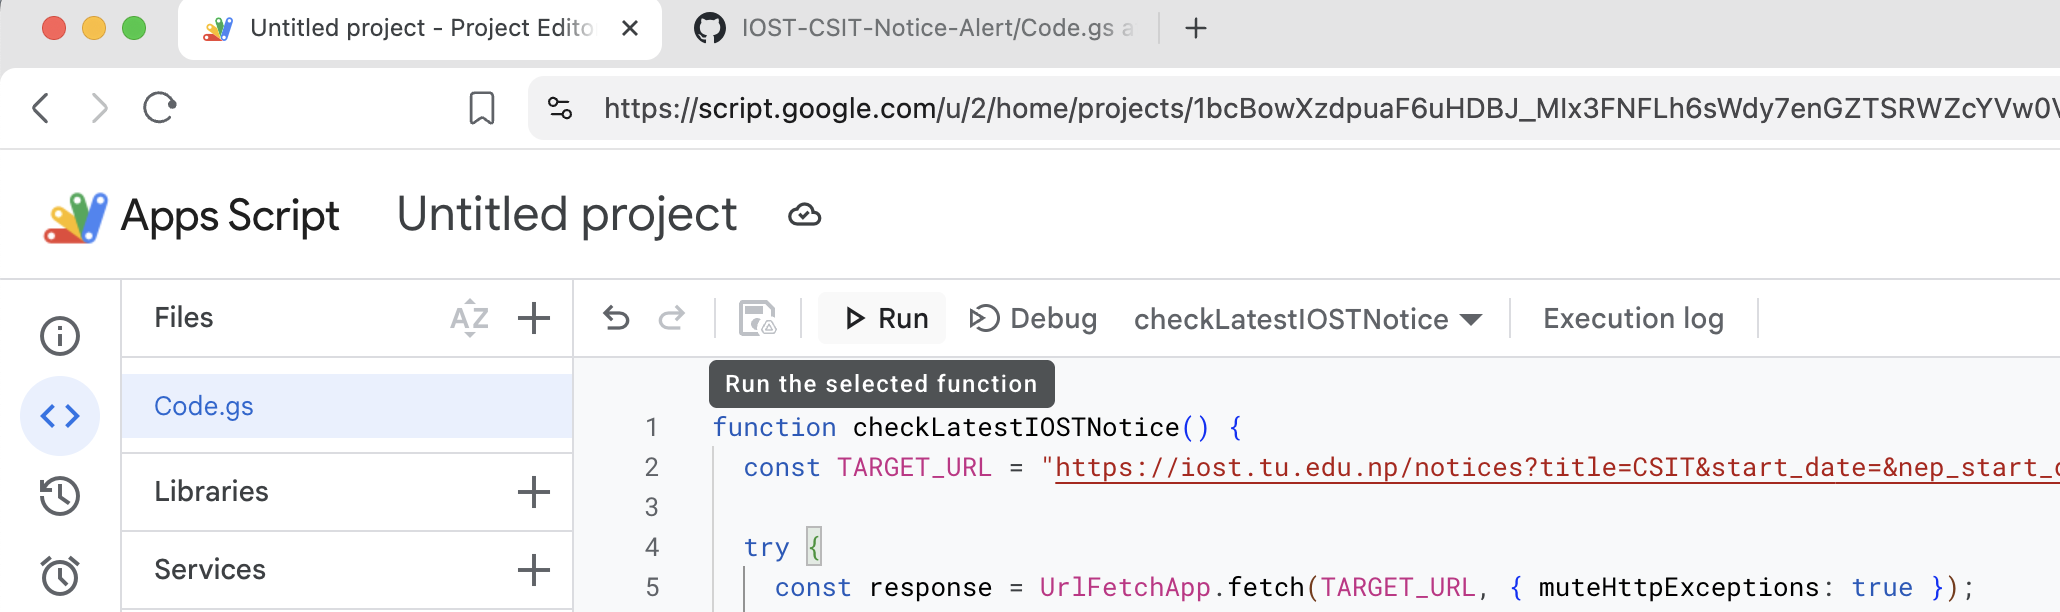
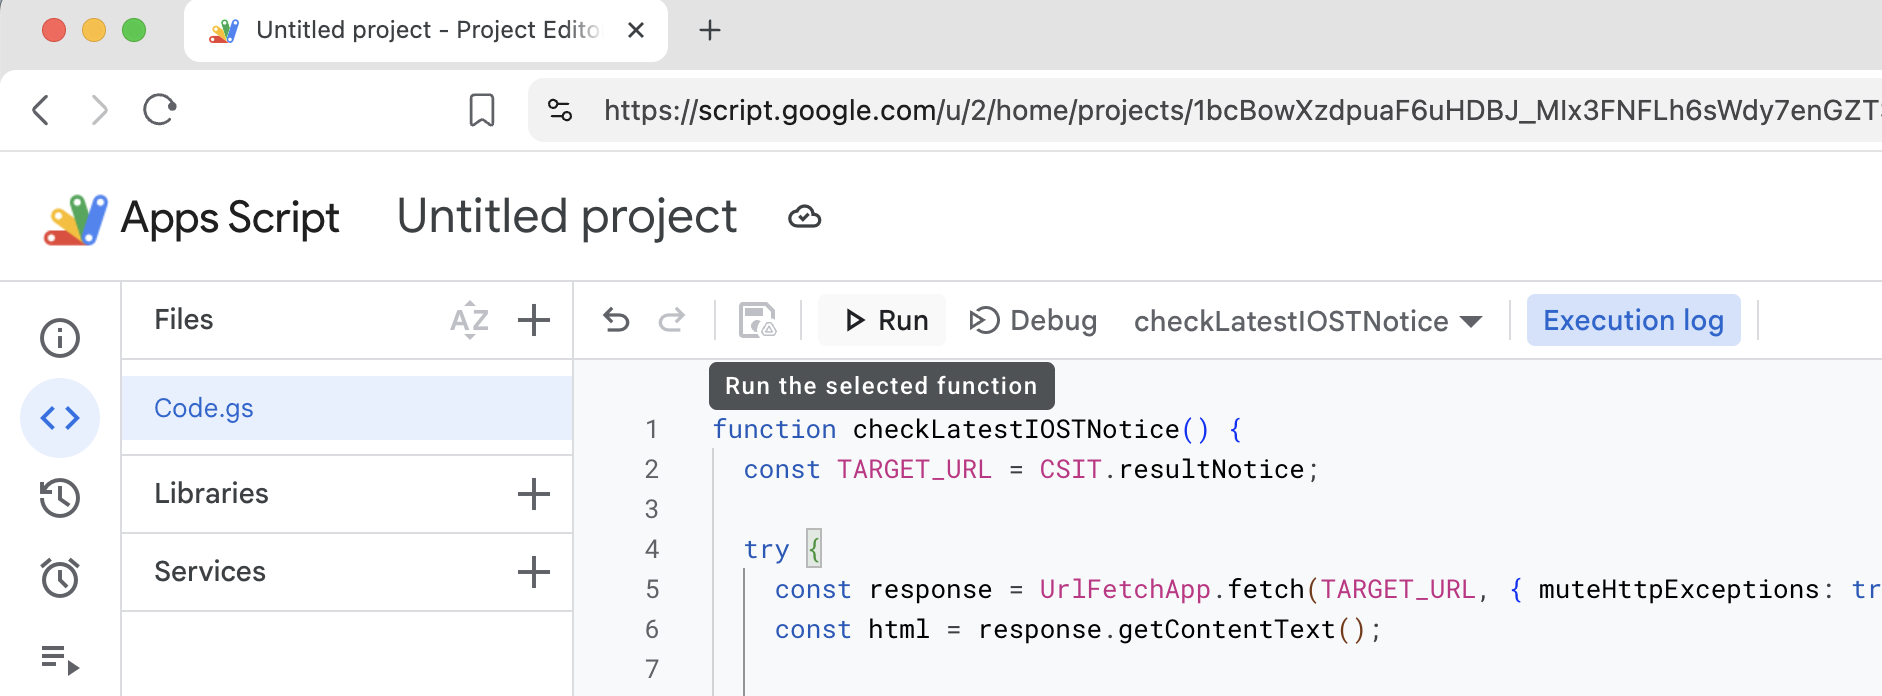
docs: update readme setup guide

diff --git a/readme.md b/readme.md
@@ -1,6 +1,6 @@
-# IOST CSIT Notice Alert
+# IOST Notice Alert
 
-Automatically receive an email whenever a new CSIT notice is published by the Institute of Science and Technology (IOST), Tribhuvan University.
+Automatically receive an email whenever a new notice is published by the Institute of Science and Technology (IOST), Tribhuvan University.
 
 This project runs entirely on Google Apps Script. Each user deploys their own copy, so notices are checked using their own Google account and emails are sent to their own email address.
 
@@ -8,7 +8,7 @@ This project runs entirely on Google Apps Script. Each user deploys their own co
 
 ## Features
 
-* Automatically checks the IOST CSIT notice page
+* Automatically checks the IOST notice page (CSIT & BIT)
 * Detects newly published notices
 * Extracts the notice details
 * Sends an email when a new notice is detected
@@ -18,25 +18,37 @@ This project runs entirely on Google Apps Script. Each user deploys their own co
 ## Installation
 
 1. Go to `https://script.google.com/` and click on `+ New Project`.
-2. Copy the `Code.gs` file, paste it into the project, and save it.
-3. Click **Run** with the `checkLatestIOSTNotice` function selected.
+2. Copy the `Code.gs` file and paste it into the project editor.
+3. On line 1, set `TARGET_URL` to your preferred program and notice type:
+
+```javascript
+const TARGET_URL = CSIT.resultNotice;
+```
+
+### Available Endpoints
+
+| Program | Variable | Endpoint Options |
+| :--- | :--- | :--- |
+| **B.Sc. CSIT** | `CSIT` | `.allNotice`<br>`.formNotice`<br>`.resultNotice`<br>`.generalNotice`<br>`.examCenterNotice`<br>`.examScheduleNotice`<br>`.academicCalendarNotice`<br>`.scholarshipNotice` |
+| **BIT** | `BIT` | `.allNotice`<br>`.formNotice`<br>`.resultNotice`<br>`.generalNotice`<br>`.examCenterNotice`<br>`.examScheduleNotice`<br>`.academicCalendarNotice`<br>`.scholarshipNotice` |
+4. Click **Run** with the `checkLatestIOSTNotice` function selected.
 
 ![image1](images/image1.png)
 
-4. You'll see a popup saying **"Authorization required"**. Approve it.
+5. You'll see a popup saying **"Authorization required"**. Approve it.
 
    > Click on `Review permissions` => `Advanced` => `Go to IOST-CSIT-Notice-Alert (unsafe)` => `Continue` => `Select all` => `Continue`.
    >
    > Google is asking you to authorize the permissions required to:
    > * Send emails
 
-5. You should see:
+6. You should see:
 
 ![image2](images/image2.png)
 
 You should also receive an email from your own Google account containing the latest notice.
 
-6. Go to the **Triggers** tab, click **Add Trigger** at the bottom right, and choose `Minutes timer` => `Every 5 minutes`.
+7. Go to the **Triggers** tab, click **Add Trigger** at the bottom right, and choose `Minutes timer` => `Every 5 minutes`.
 
 ![image3](images/image3.png)
 
